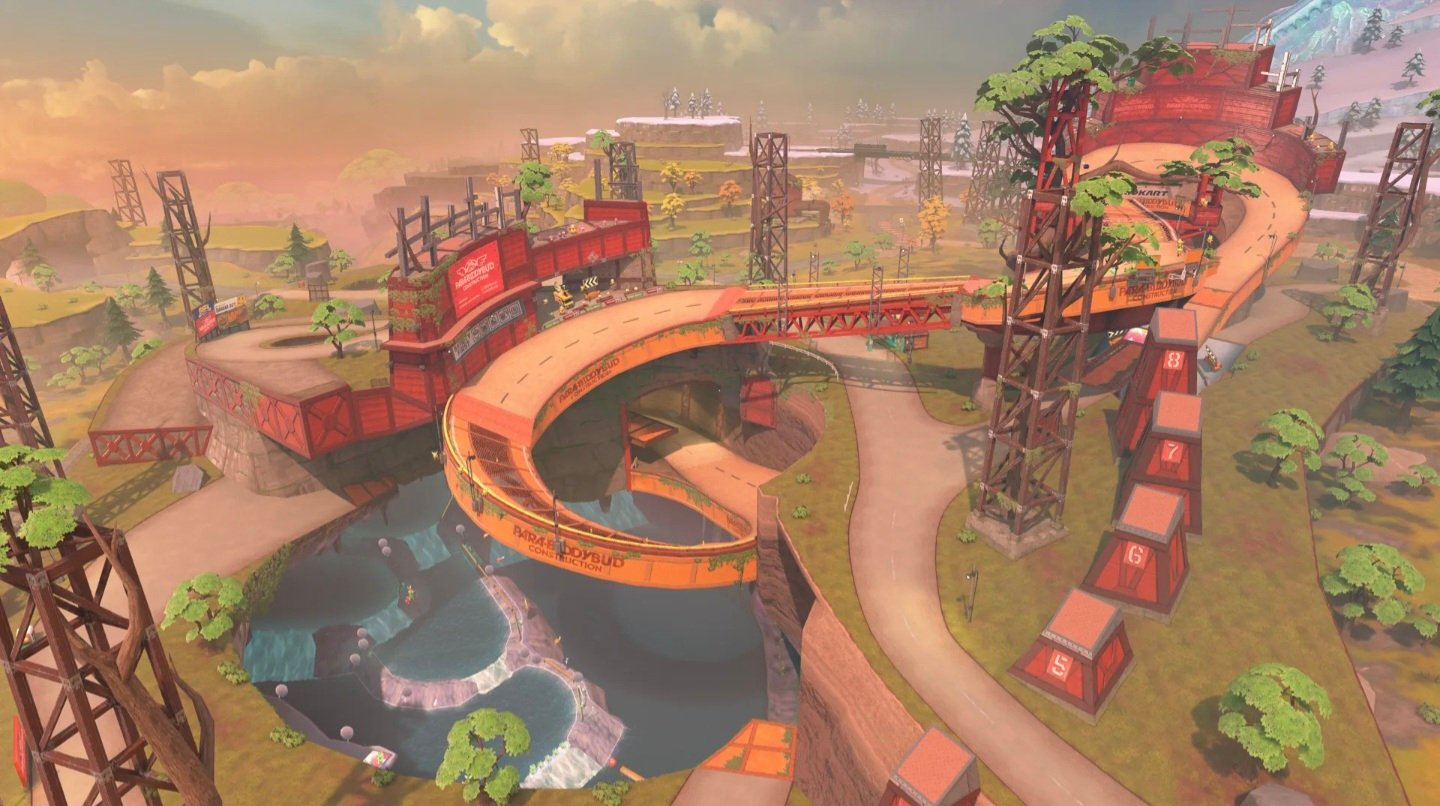
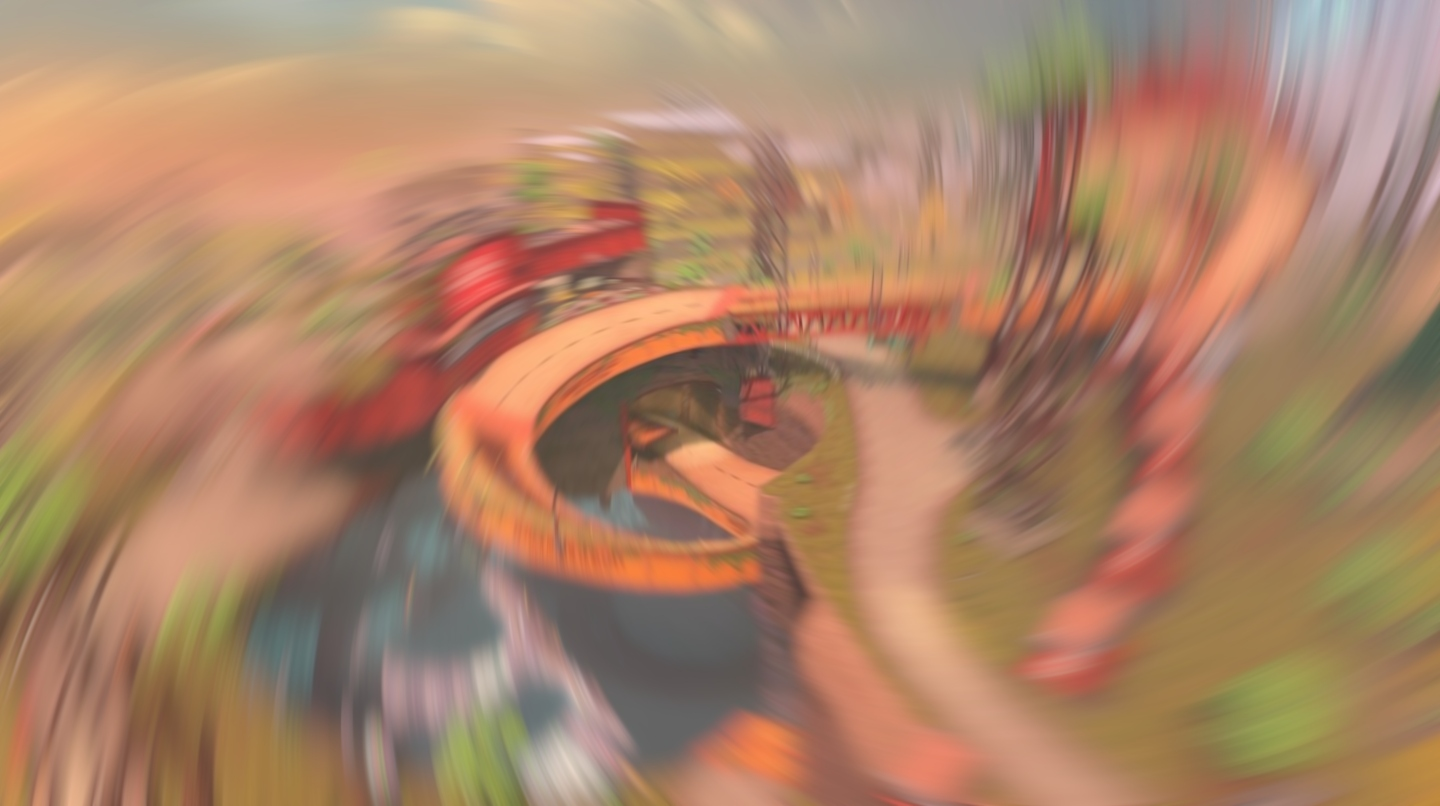
v1.2.5
- All crashing bugs should be fixed.
- Summary background is blurred in a different way to reduce cpu usage

diff --git a/main.py b/main.py
@@ -12,6 +12,7 @@ import random
 import io
 import matplotlib.pyplot as plt
 import matplotlib.ticker as mticker
+import matplotlib
 
 
 from PIL import Image, ImageDraw, ImageFont, ImageFilter, ImageEnhance
@@ -159,7 +160,8 @@ def save_war_state():
         json.dump(war_states, f)
 
     for gid, state in war_states.items():
-        generate_overlay_image(state, int(gid))
+        if isinstance(gid, int) or (isinstance(gid, str) and gid.isdigit()):
+            generate_overlay_image(state, int(gid))
 
 def load_war_states():
     global war_states
@@ -318,7 +320,6 @@ def generate_overlay_image(state, guild_id):
     img.close()
     shadow.close()
 
-    buf = generate_overlay_image(state, guild_id)
     overlay_cache[guild_id] = io.BytesIO(buf.getvalue())
 
     return buf
@@ -437,11 +438,6 @@ async def endwar(ctx):
     # Ultima pista giocata
     track_tag = state['results'][-1]['track_tag']
     bg_img = load_track_bg(track_tag)
-    bg_img = bg_img.filter(ImageFilter.GaussianBlur(radius=3))
-    
-    # Aumento luminosità dello sfondo
-    enhancer = ImageEnhance.Brightness(bg_img)
-    bg_img = enhancer.enhance(1.08)
     
     team_tag = state.get('team_tag', "Team A")
     opp_tag  = state.get('opponent_tag', "Team B")
@@ -462,20 +458,17 @@ async def endwar(ctx):
     save_war_state()
     embed = format_summary_embed(ctx.guild.id)
 
-    # === Calcola cumulativi e differenza ===
     team_cum = [sum(team_scores[:i+1]) for i in range(len(team_scores))]
     opp_cum  = [sum(opp_scores[:i+1]) for i in range(len(opp_scores))]
     diff = [t - o for t, o in zip(team_cum, opp_cum)]
     races = list(range(1, len(team_scores)+1))
 
-    # === Crea grafico trasparente ===
     fig, ax = plt.subplots(figsize=(6,3))
     for spine in ax.spines.values():
         spine.set_visible(False)
     ax.set_facecolor("none")
     fig.patch.set_alpha(0)
 
-    # Y-ticks
     min_diff = int(min(diff))
     max_diff = int(max(diff))
     mid_low  = int((min_diff + 0) / 2) if min_diff < -20 else 0
@@ -484,7 +477,6 @@ async def endwar(ctx):
     ax.set_yticks(yticks)
     ax.xaxis.set_major_locator(mticker.MaxNLocator(integer=True))
 
-    # Titolo (Team vs Team)
     ax.text(0.41, 1.05, team_tag, color="#424242", fontsize="32", fontweight="bold",
             ha='right', transform=ax.transAxes)
     ax.text(0.51, 1.05, opp_tag, color="#424242", fontsize="32", fontweight="bold",
